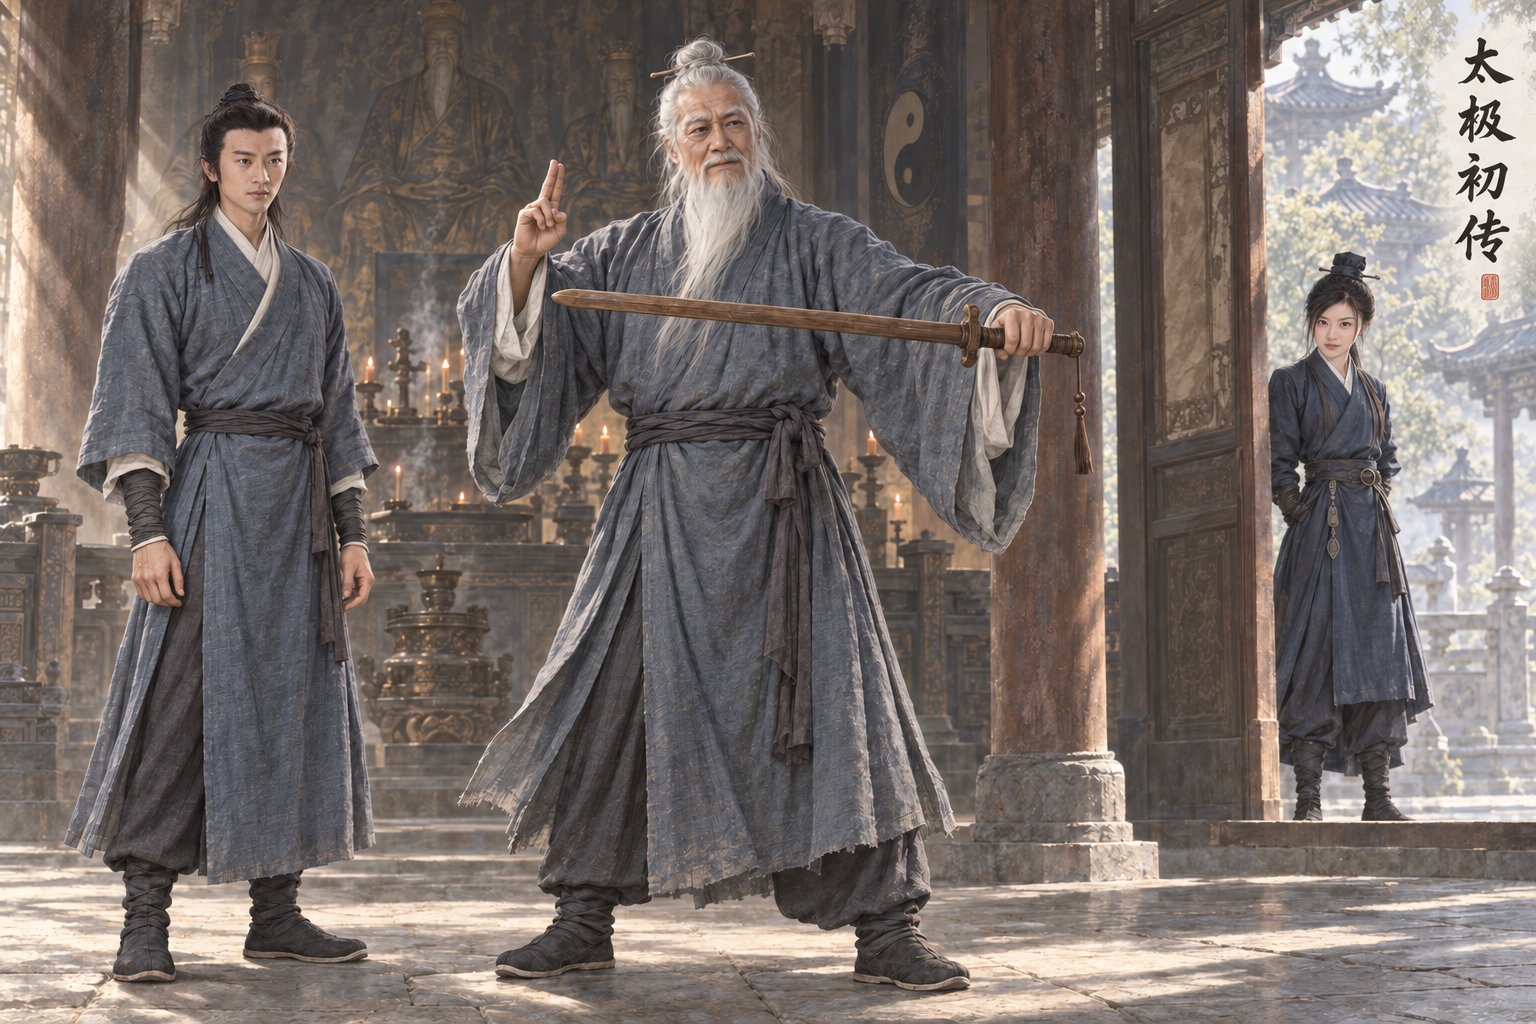
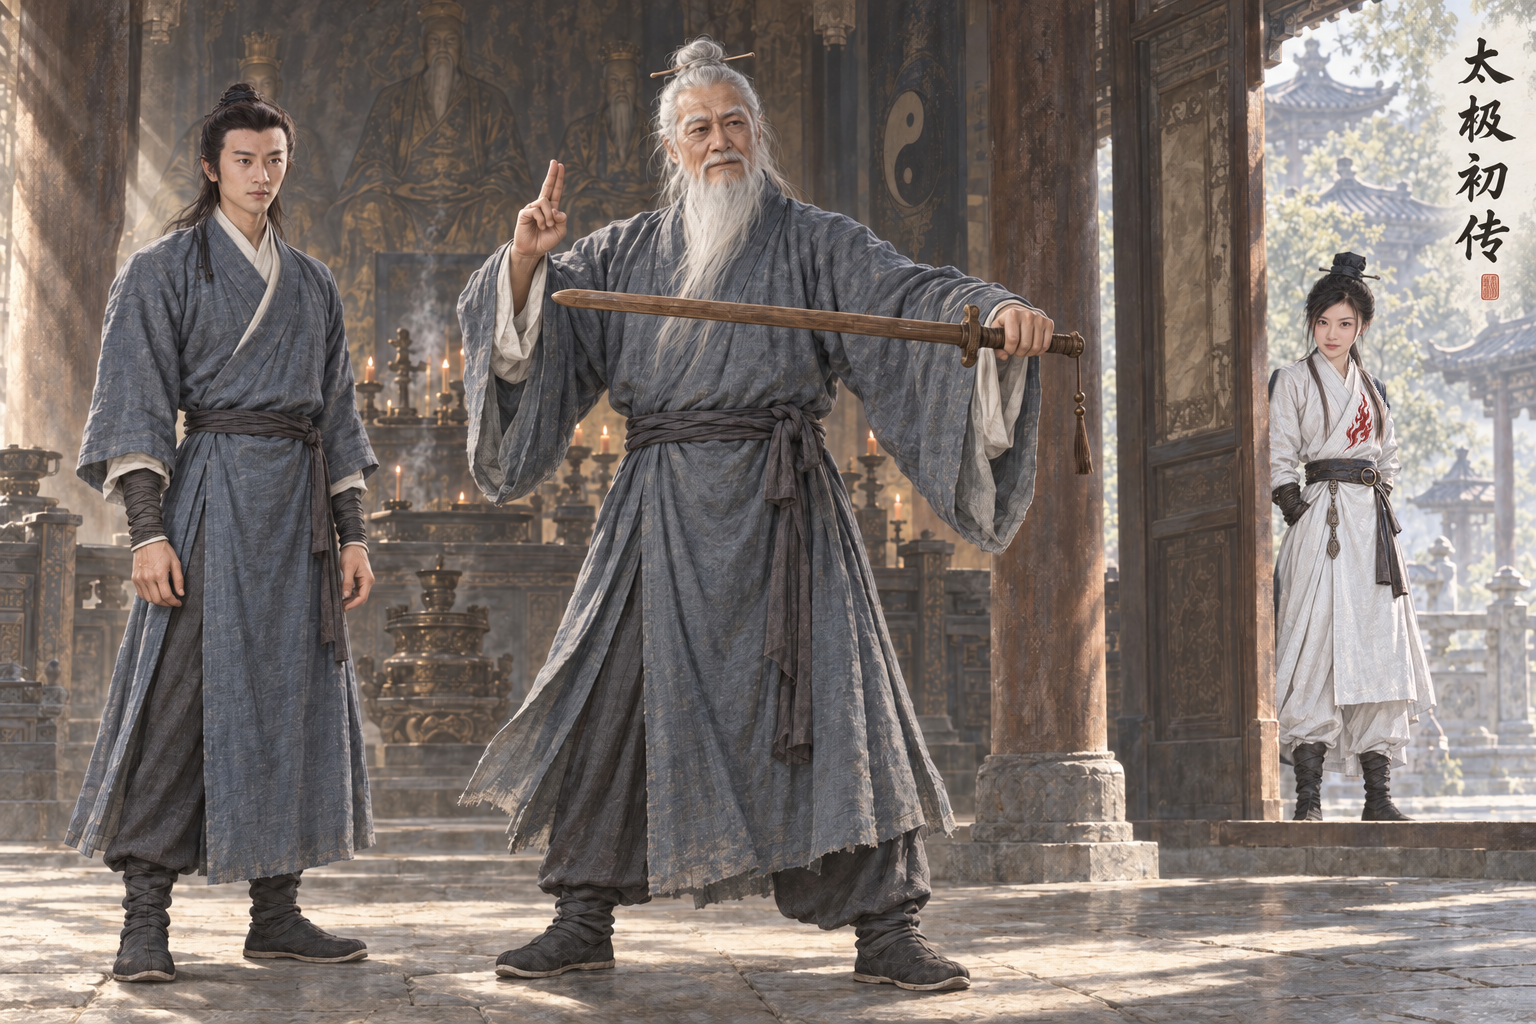
assets: AR-82 原著核对返修 武当太极插图同步赵敏白袍血红火焰
原著摘句已同步提示词；已打开验图；蒙版外0像素变化。

Executed-By: Codex gpt-6.1-sol（AR-82）

Changed region(s): [[0.8125, 0.3438, 0.9375, 0.7812]]

diff --git a/assets/default/prompts/scenes/ch04-yitian/cg_ch04_wudang_taiji.md b/assets/default/prompts/scenes/ch04-yitian/cg_ch04_wudang_taiji.md
@@ -63,3 +63,7 @@ composite_job: cg_ch04_wudang_taiji.resume3r2
 排除项：不要文字、题字、字幕、水印、签名、Logo、边框或分镜格；不要未指定的多余人物（明确要求的远景群像除外）；不要幼态、儿童体态、性化处理、裸露或恋物特写；不要血腥特写、断肢、尸体堆叠或伤口细节；不要真人、演员、影视剧照复刻；不要多余肢体、手指错误、脸部融合、身份串脸、时代错装、现代物件、动漫风、摄影棚感、3D 塑料感。
 ```
 
+## 原著依据
+
+- 《倚天屠龙记》二十四 太极初传柔克刚：“一身白袍，袍上绣着个血红的火焰”；https://www.xuges.com/wuxia/jinyong/yttlj/176.htm
+- AR-82 返修约束（本节优先于历史提示词）：只将右后方门边赵敏的深蓝色袍改为白色男装长袍，胸前明显绣一个血红火焰标记。保留她的束发男冠、面容、身材、手和鞋。张无忌与张三丰、木剑、题字朱印、其他人和背景完全不动。
